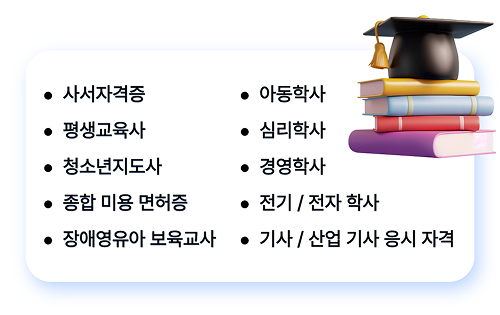
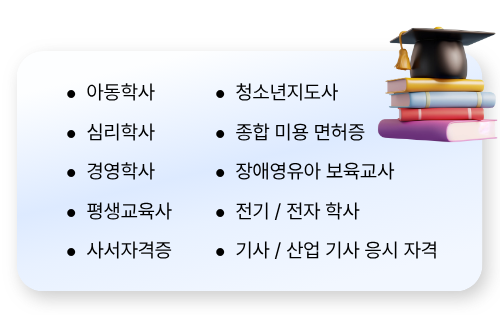
change img

diff --git a/src/app/page.module.css b/src/app/page.module.css
@@ -516,7 +516,7 @@
         height: auto;
         margin: 1rem auto;
         padding: 0rem;
-        content: url('/qualist_mobile2.png');
+        content: url('/qualist_mobile.png');
     }
 
     .quasection2 {
